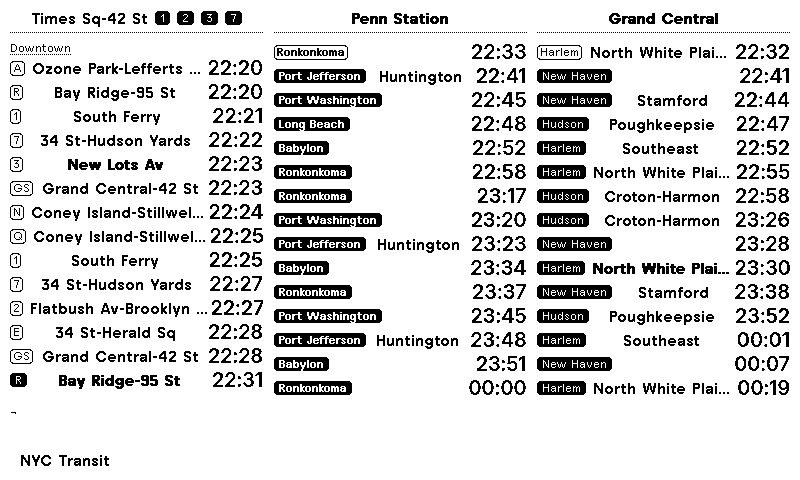
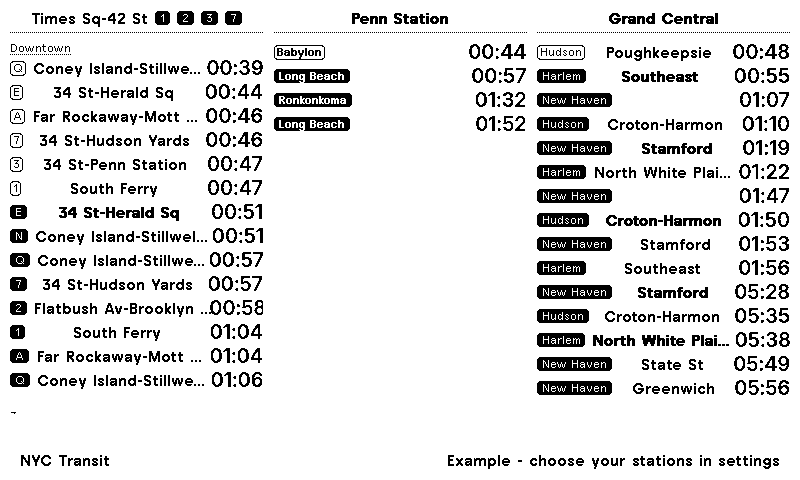
Fix four defects found by testing the layout
The demo board never announced itself. The backend sets a `d` flag when it
substitutes the example board, and the comment beside it claimed the panel
says so - but no template read it. A new installer would have seen Times
Square and Penn Station and reasonably assumed their own form had taken
effect. All four layouts now carry an "Example - choose your stations in
settings" note in the title bar.

The payload margin was too thin. A stress board of six Times Square complexes
landed at 94.7% of the cap with a 5% margin. What is measured here is our own
JSON; what TRMNL enforces is the merge variables it stores, and the two are
not guaranteed identical. Since overrun truncates silently rather than
failing, the margin is now 10% - the same stress board lands at 89.9% with
all six cards intact.

A long destination wrapped a railroad badge onto two lines, making one row
taller than its neighbours. "New Haven-State St" beside a "New Haven" badge
says the branch twice anyway, so a destination that merely extends its badge
is now shortened to the part that differs - "State St".

The Content Limiter left a clipped fragment at the foot of a full-height
card. That is its documented behaviour - it truncates the first overflowing
block - so the budget drops from 78% to 72% of device height, which puts the
cut between rows. Verified against both the demo board and a real five-card
board.

Edge cases exercised against a running Worker: empty query, all slots empty,
[…]

diff --git a/trmnl-recipe/src/index.ts b/trmnl-recipe/src/index.ts
@@ -26,14 +26,25 @@ function payloadBytes(board: Board): number {
 }
 
 /**
- * Drop rows until the board fits, longest column first.
+ * How much headroom to leave under TRMNL's cap.
  *
- * Keeping a safety margin under the real cap: the measurement here is of our
- * own JSON, while TRMNL measures what it stores after merging, which is not
- * guaranteed to be identical.
+ * What is measured here is our own JSON; what TRMNL enforces is the size of
+ * the merge variables it stores after merging, and the two are not guaranteed
+ * to be byte-identical. Overrun does not fail loudly — the board is silently
+ * truncated and the panel quietly loses its last cards — so the margin is
+ * sized for that asymmetry rather than for efficiency.
+ *
+ * 10% of the cap. A stress board of six multi-line complexes landed at 94.7%
+ * with a 5% margin, which is too close to depend on when the penalty is a
+ * board that looks broken for reasons the user cannot see.
+ */
+const PAYLOAD_MARGIN_RATIO = 0.1;
+
+/**
+ * Drop rows until the board fits, longest column first.
  */
 function trimToPayloadCap(board: Board, cap: number): void {
-  const margin = cap - 256;
+  const margin = cap - Math.ceil(cap * PAYLOAD_MARGIN_RATIO);
   // Bounded rather than `while (true)`: a pathological board should degrade,
   // not spin.
   for (let pass = 0; pass < 200; pass++) {
